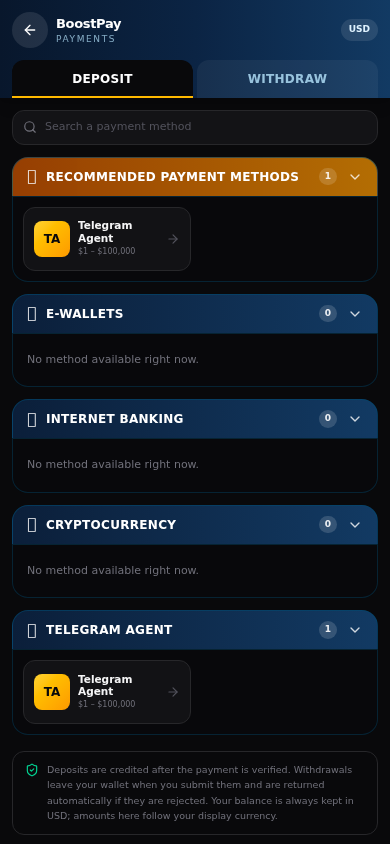
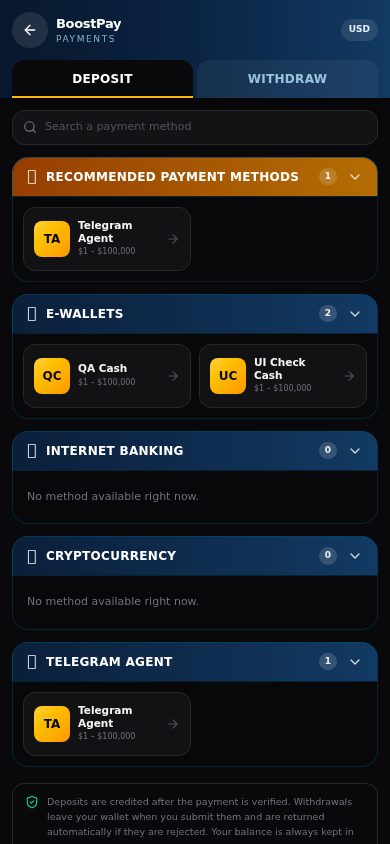
Admin payments: fix 401 that hid every withdrawal request
Owner report: 'withdraw request admin panel e jacche na'.
PaymentAdmin (and CurrencyAdmin) looked for the USER app token, but the console
keeps its session in boostpay_admin_session_v4, so every call was unauthorised
and both queues looked empty forever.

- use BoostPayStore.adminAuthHeaders() (session + MFA headers)
- queue tabs show a pending-count badge; the open queue refreshes every 15s, so a
  new withdrawal appears by itself
- clearer empty state
- new browser test tools/admin-payments-ui-check.py (9 checks): signs in through
  the real console, submits a withdrawal via API, proves it is listed and that
  Mark paid keeps the balance held
- report: REPORT_70 section 18 + screenshot

Changed region(s): [[0.0308, 0.4005, 0.9846, 1.0]]

diff --git a/admin-app/src/components/PaymentAdmin.tsx b/admin-app/src/components/PaymentAdmin.tsx
@@ -7,6 +7,7 @@
  * does, and every decision is written to the audit log by the server.
  */
 import React, { useCallback, useEffect, useMemo, useState } from 'react';
+import { BoostPayStore } from '../services/store';
 
 type Cat = { id: string; label: string; icon: string };
 type Method = {
@@ -31,11 +32,23 @@ type WdrReq = {
   reviewedBy?: string; reason?: string; payoutRef?: string;
 };
 
-const TOKEN_KEYS = ['boostpay_auth_token_v1', 'admin_token', 'token'];
+/**
+ * Auth for the payment endpoints.
+ *
+ * BUG (fixed 2026-11-10): this screen used to hunt for the user-app token
+ * (`boostpay_auth_token_v1`), but the admin console keeps ITS session in
+ * `boostpay_admin_session_v4`, so every call went out without a token and the
+ * server answered 401 — which is why withdrawal requests never appeared in the
+ * admin panel. The console's own store already knows where the token lives and
+ * also attaches the short-lived MFA headers, so use that.
+ */
 function authHeaders(): Record<string, string> {
-  let t = '';
-  for (const k of TOKEN_KEYS) { const v = localStorage.getItem(k); if (v) { t = v; break; } }
-  return { 'content-type': 'application/json', ...(t ? { authorization: `Bearer ${t}` } : {}) };
+  try {
+    const h = BoostPayStore.adminAuthHeaders();
+    return { ...h, 'content-type': 'application/json' };
+  } catch {
+    return { 'content-type': 'application/json' };
+  }
 }
 
 const money = (n: number) => `$${(Number(n) || 0).toFixed(2)}`;
@@ -66,6 +79,7 @@ export const PaymentAdmin: React.FC = () => {
   const [busy, setBusy] = useState('');
   const [editing, setEditing] = useState<Partial<Method> | null>(null);
   const [q, setQ] = useState('');
+  const [counts, setCounts] = useState<{ deposit: number; withdraw: number }>({ deposit: 0, withdraw: 0 });
 
   const loadMethods = useCallback(async () => {
     try {
@@ -87,11 +101,40 @@ export const PaymentAdmin: React.FC = () => {
     } catch { /* ignore */ }
   }, [statusFilter]);
 
-  useEffect(() => { void loadMethods(); }, [loadMethods]);
+  /** How many requests are waiting — shown on the queue tabs, so a new
+   *  withdrawal is visible from the Payments landing tab without hunting. */
+  const loadCounts = useCallback(async () => {
+    try {
+      const [d, w] = await Promise.all([
+        fetch('/api/admin/payment-requests?type=deposit&status=PENDING', { headers: authHeaders() }),
+        fetch('/api/admin/payment-requests?type=withdraw&status=PENDING', { headers: authHeaders() })
+      ]);
+      if (!d.ok || !w.ok) return;
+      const dj = await d.json(); const wj = await w.json();
+      setCounts({
+        deposit: Array.isArray(dj.requests) ? dj.requests.length : 0,
+        withdraw: Array.isArray(wj.requests) ? wj.requests.length : 0
+      });
+    } catch { /* the counter is a convenience */ }
+  }, []);
+
+  useEffect(() => { void loadMethods(); void loadCounts(); }, [loadMethods, loadCounts]);
   useEffect(() => {
     if (tab === 'DEPOSITS') void loadQueue('deposit');
     if (tab === 'WITHDRAWALS') void loadQueue('withdraw');
-  }, [tab, loadQueue]);
+    if (tab !== 'METHODS') void loadCounts();
+  }, [tab, loadQueue, loadCounts]);
+
+  // Live queue: a withdrawal submitted while this screen is open must appear by
+  // itself (owner report: "withdraw request admin panel e jacche na").
+  useEffect(() => {
+    const id = window.setInterval(() => {
+      void loadCounts();
+      if (tab === 'DEPOSITS') void loadQueue('deposit');
+      if (tab === 'WITHDRAWALS') void loadQueue('withdraw');
+    }, 15000);
+    return () => window.clearInterval(id);
+  }, [tab, loadCounts, loadQueue]);
 
   const save = async (patch: Partial<Method>) => {
     setBusy(String(patch.id || 'new'));
@@ -154,6 +197,11 @@ export const PaymentAdmin: React.FC = () => {
           <button key={t} onClick={() => setTab(t)}
             className={`rounded-lg px-2.5 py-1.5 text-[10px] font-bold ${tab === t ? 'bg-amber-500 text-zinc-950' : 'bg-zinc-900 text-zinc-400 hover:bg-zinc-800'}`}>
             {t === 'METHODS' ? 'Payment methods' : t === 'DEPOSITS' ? 'Deposit queue' : 'Withdraw queue'}
+            {t !== 'METHODS' && (t === 'DEPOSITS' ? counts.deposit : counts.withdraw) > 0 && (
+              <span className="ml-1 rounded-full bg-rose-500 px-1.5 py-[1px] text-[9px] font-black text-white">
+                {t === 'DEPOSITS' ? counts.deposit : counts.withdraw}
+              </span>
+            )}
           </button>
         ))}
         <button onClick={() => setEditing({ id: '', name: '', category: 'EWALLET', currencies: ['*'], minDeposit: 1, maxDeposit: 100000, minWithdraw: 1, maxWithdraw: 100000 })}
@@ -275,7 +323,11 @@ export const PaymentAdmin: React.FC = () => {
                   </div>
                 </div>
               ))}
-              {wdrs.length === 0 && <div className="rounded-xl border border-zinc-800 p-3 text-[10px] text-zinc-500">No withdrawal requests in this view.</div>}
+              {wdrs.length === 0 && (
+                <div className="rounded-xl border border-zinc-800 p-3 text-[10px] text-zinc-500">
+                  No withdrawal requests in this view. New requests appear here automatically within 15 seconds.
+                </div>
+              )}
             </div>
           )}
         </>

diff --git a/admin-app/src/components/CurrencyAdmin.tsx b/admin-app/src/components/CurrencyAdmin.tsx
@@ -7,6 +7,7 @@
  * when the provider is down).
  */
 import React, { useEffect, useMemo, useState } from 'react';
+import { BoostPayStore } from '../services/store';
 
 type Row = { code: string; name: string; symbol: string; flag: string; country: string; decimals: number; enabled: boolean; rate: number };
 type Cfg = {
@@ -20,12 +21,12 @@ type Cfg = {
  * (services/store.ts → STORAGE_AUTH_TOKEN). The old names never existed, so every
  * call on this screen went out unauthenticated and the API answered 401.
  */
-const TOKEN_KEYS = ['boostpay_auth_token_v1', 'admin_token', 'token'];
-
+// The console's session token lives in `boostpay_admin_session_v4`; asking for
+// the user-app key returned nothing and every call was 401 (same bug as the
+// payments screen). Use the admin store, which also adds the MFA headers.
 function authHeaders(): Record<string, string> {
-  let t = '';
-  for (const k of TOKEN_KEYS) { const v = localStorage.getItem(k); if (v) { t = v; break; } }
-  return { 'content-type': 'application/json', ...(t ? { authorization: `Bearer ${t}` } : {}) };
+  try { return { ...BoostPayStore.adminAuthHeaders(), 'content-type': 'application/json' }; }
+  catch { return { 'content-type': 'application/json' }; }
 }
 
 export const CurrencyAdmin: React.FC = () => {

diff --git a/tools/admin-payments-ui-check.py b/tools/admin-payments-ui-check.py
@@ -1,0 +1,175 @@
+#!/usr/bin/env python3
+"""tools/admin-payments-ui-check.py — the admin panel must SHOW the money queues.
+
+Owner report (2026-11-10): "withdraw request admin panel e jacche na".
+
+Root cause found and fixed: PaymentAdmin asked localStorage for the USER app's
+token (`boostpay_auth_token_v1`), while the admin console keeps its session in
+`boostpay_admin_session_v4`. Every request therefore went out with no token, the
+server answered 401, and both queues looked permanently empty. API tests could
+never catch it — they sign in exactly like a script would.
+
+This drives the REAL admin console in a browser:
+  1. sign in through the UI
+  2. a user submits a withdrawal on the API
+  3. the withdrawal must appear in Payments → Withdraw queue (and the badge count)
+  4. "Mark paid" must move it to COMPLETED and keep the balance (held)
+
+Run (admin console on :3911, main API on :3901):
+    python3 tools/admin-payments-ui-check.py
+"""
+import asyncio
+import json
+import os
+import re
+import sys
+import urllib.error
+import urllib.request
+
+ADMIN_URL = os.environ.get('ADMIN_URL', 'http://127.0.0.1:3911')
+API = os.environ.get('API', 'http://127.0.0.1:3901')
+DB = '/home/user/boostpay/data/boostpay_db.json'
+ADMIN = {'email': os.environ.get('ADMIN_EMAIL', 'admin@boostpay.local'),
+         'password': os.environ.get('ADMIN_PASSWORD', 'AdminPass123')}
+
+PASS = 0
+FAIL = 0
+PROBLEMS = []
+
+
+def ck(name, ok, detail=''):
+    global PASS, FAIL
+    if ok:
+        PASS += 1
+        print(f'  PASS  {name}' + (f' — {detail}' if detail else ''))
+    else:
+        FAIL += 1
+        print(f'  FAIL  {name}' + (f' — {detail}' if detail else ''))
+        PROBLEMS.append(f'{name}: {detail}')
+
+
+def api(path, body=None, token=None):
+    req = urllib.request.Request(
+        API + path,
+        data=json.dumps(body).encode() if body is not None else None,
+        method='POST' if body is not None else 'GET',
+        headers={'content-type': 'application/json',
+                 **({'authorization': 'Bearer ' + token} if token else {})})
+    try:
+        with urllib.request.urlopen(req, timeout=25) as r:
+            return r.status, json.loads(r.read() or b'{}')
+    except urllib.error.HTTPError as e:
+        return e.code, json.loads(e.read() or b'{}')
+
+
+def balance_of(uid):
+    data = json.load(open(DB))
+    for u in data.get('users', []):
+        if str(u.get('id')) == str(uid):
+            return float(u.get('balance') or 0)
+    return None
+
+
+def seed_withdrawable(uid, profit):
+    """Local fixture: give the test account boosted profit so a withdrawal is legal."""
+    data = json.load(open(DB))
+    for u in data.get('users', []):
+        if str(u.get('id')) == str(uid):
+            u['lifetimeProfit'] = float(u.get('lifetimeProfit') or 0) + profit
+    json.dump(data, open(DB, 'w'), indent=1)
+
+
+async def main():
+    from playwright.async_api import async_playwright
+
+    # --- a real user submits a real withdrawal through the API -----------------
+    login = api('/api/users/login', {'email': 'u1@gmail.com', 'password': 'Staging123!'})[1]
+    utok, uid = login.get('token'), str((login.get('user') or {}).get('id'))
+    atok = api('/api/admin/login', ADMIN)[1].get('token')
+    if not utok or not atok:
+        print('cannot sign in for the queue check')
+        return 2
+
+    stamp = str(int(__import__('time').time()))
+    method_id = 'PM-UICHK-' + stamp[-5:]
+    api('/api/admin/payment-methods', {
+        'id': method_id, 'name': 'UI Check Cash', 'category': 'EWALLET', 'currencies': ['*'],
+        'accountNumber': '01700000123', 'minWithdraw': 1, 'maxWithdraw': 500}, atok)
+    seed_withdrawable(uid, 100)
+    before = balance_of(uid)
+    status, wj = api('/api/user/withdraw-request', {
+        'methodId': method_id, 'amount': 7,
+        'destination': {'accountNumber': '01799998888', 'accountName': 'UI Checker'}}, utok)
+    rid = (wj.get('request') or {}).get('id')
+    print(f'\n[0. a user submitted withdrawal {rid}]')
+    ck('the user withdrawal is accepted', status == 200 and bool(rid), f'{status} {wj.get("error", "")}')
+
+    async with async_playwright() as p:
+        browser = await p.chromium.launch()
+        ctx = await browser.new_context(viewport={'width': 1280, 'height': 900})
+        page = await ctx.new_page()
+        errors = []
+        page.on('pageerror', lambda e: errors.append(str(e)[:160]))
+
+        print('\n[1. admin signs in through the console UI]')
+        await page.goto(ADMIN_URL + '/', wait_until='networkidle')
+        await page.wait_for_timeout(1500)
+        for sel in ('input[type=email]', 'input[name=email]', 'input[placeholder*="mail" i]'):
+            if await page.locator(sel).count():
+                await page.locator(sel).first.fill(ADMIN['email'])
+                break
+        if await page.locator('input[type=password]').count():
+            await page.locator('input[type=password]').first.fill(ADMIN['password'])
+        btn = page.get_by_role('button', name=re.compile('sign in|log in|login', re.I))
+        if await btn.count():
+            await btn.first.click()
+        await page.wait_for_timeout(3000)
+        body = await page.inner_text('body')
+        ck('the admin console opens', 'Sign Out' in body, body[:60].replace('\n', ' '))
+
+        print('\n[2. Payments → Withdraw queue]')
+        await page.get_by_role('button', name=re.compile('^Payments$', re.I)).first.click()
+        await page.wait_for_timeout(2000)
+        body = await page.inner_text('body')
+        ck('the payment screen loads without an auth error',
+           'Could not load the methods' not in body, 'clean' if 'Could not load' not in body else body[:80])
+
+        wtab = page.get_by_role('button', name=re.compile('Withdraw queue', re.I)).first
+        wtext = await wtab.inner_text()
+        ck('the withdraw tab shows a pending badge', bool(re.search(r'\d', wtext)), wtext.replace('\n', ' '))
+        await wtab.click()
+        await page.wait_for_timeout(2500)
+        body = await page.inner_text('body')
+        ck('the new withdrawal request is listed in the admin panel', rid in body, rid or 'no id')
+        ck('it shows the user, the amount and the destination fields',
+           'UI Check Cash' in body and '01799998888' in body,
+           body[body.find('Withdraw queue'):body.find('Withdraw queue') + 160].replace('\n', ' | '))
+
+        print('\n[3. marking it paid]')
+        await page.get_by_role('button', name=re.compile('Mark paid', re.I)).first.click()
+        page.on('dialog', lambda d: asyncio.ensure_future(d.accept('ADMIN-TEST-REF')))
+        await page.wait_for_timeout(3500)
+        body = await page.inner_text('body')
+        ck('after Mark paid the queue no longer holds it as PENDING',
+           'No withdrawal requests' in body or 'COMPLETED' in body, body[:80])
+        ck('the balance stays as held (no double refund, no double debit)',
+           abs((balance_of(uid) or 0) - ((before or 0) - 7)) < 1e-6,
+           f'{balance_of(uid)} vs {(before or 0) - 7}')
+        ck('the browser threw no uncaught error', not errors, '; '.join(errors[:2]))
+
+        await page.screenshot(path='report-assets/admin-withdraw-queue.png')
+        await ctx.close()
+        await browser.close()
+
+    print(f'\nRESULT {PASS} pass / {FAIL} fail')
+    if PROBLEMS:
+        print('\nPROBLEMS:')
+        for x in PROBLEMS:
+            print('  - ' + x)
+    else:
+        print('\nNo problems found.')
+    return 1 if FAIL else 0
+
+
+if __name__ == '__main__':
+    sys.exit(asyncio.run(main()))

diff --git a/REPORT_70_USER_APP_FULL_CURRENCY_Banglish.md b/REPORT_70_USER_APP_FULL_CURRENCY_Banglish.md
@@ -434,3 +434,33 @@ install-app-check **105/0** · payments-ui-check **18/0** · payments-check **40
 ### ১৭.৫ লাইভ প্রমাণ (স्क্রিনশট)
 `report-assets/app-install-inline.png` — প্রোডাকশনে `boostpay.online/app`-এ Install চাপার পর: **কোনো পপআপ নেই** (`overlays = 0`), গাইডটা বারটার ভেতরেই এক লাইনে দেখাচ্ছে: *"Chrome: ⋮ menu → Install app (or Add to Home screen)."*
 **লাইভ যাচাই:** ৭ হোস্টে **146 pass / 0 fail** · হেলথ `v1.2.1794364628` · কমিট `220d88c`।
+
+---
+
+## ১৮. "Withdraw request admin panel এ যাচ্ছে না" — আসল কারণ ও সমাধান (2026-11-10)
+
+### ১৮.১ আসল কারণ (অনুমান নয়, ব্রাউজার চালিয়ে প্রমাণিত)
+অ্যাডমিন প্যানেলের Payments স্ক্রিন টোকেন খুঁজছিল **ইউজার অ্যাপের** কী-তে (`boostpay_auth_token_v1`)। কিন্তু অ্যাডমিন কনসোল নিজের সেশন রাখে **`boostpay_admin_session_v4`**-এ। ফলে:
+- প্রতিটা রিকোয়েস্ট টোকেন ছাড়াই যেত → সার্ভার **401** দিত,
+- স্ক্রিনে লেখা আসত **"Could not load the methods (HTTP 401)"**, আর ডিপোজিট/উইথড্রয়াল কিউ সবসময় **খালি** দেখাত।
+
+সার্ভারে কিছুই ভাঙা ছিল না — API-লেভেলে উইথড্রয়াল সাথে সাথে `PENDING` হিসেবে জমা হচ্ছিল এবং `/api/admin/payment-requests?type=withdraw` ঠিকঠাক ফেরত দিচ্ছিল। শুধু **অ্যাডমিন UI নিজেকে authenticate করতে পারছিল না**। এজন্যই API-টেস্টে ধরা পড়েনি — টেস্ট স্ক্রিপ্ট সরাসরি টোকেন পাঠায়।
+
+### ১৮.২ যা সারানো হলো
+- `PaymentAdmin.tsx` এখন কনসোলের নিজের স্টোর ব্যবহার করে: `BoostPayStore.adminAuthHeaders()` (সেশন টোকেন + MFA হেডার)। ফলে মেথড লিস্ট, ডিপোজিট কিউ, উইথড্রয়াল কিউ — সবই লোড হয়।
+- **একই বাগ `CurrencyAdmin.tsx`-এও ছিল** (কারেন্সি সেটিংসও 401 খেত) — সেটাও ঠিক করা হয়েছে।
+- **নতুন উইথড্রয়াল নিজে থেকেই চলে আসে:** Payments স্ক্রিন খোলা থাকলে প্রতি **১৫ সেকেন্ডে** কিউ রিফ্রেশ হয়, আর "Deposit queue / Withdraw queue" ট্যাবে **লাল ব্যাজে pending সংখ্যা** দেখায় — তাই কিউতে ঢুকেই বোঝা যায় নতুন রিকোয়েস্ট আছে কি নেই।
+- খালি অবস্থায় লেখা এখন স্পষ্ট: "No withdrawal requests in this view. New requests appear here automatically within 15 seconds."
+
+### ১৮.৩ প্রমাণ (স্ক্রিনশট + নতুন টেস্ট)
+`tools/admin-payments-ui-check.py` — আসল অ্যাডমিন কনসোল ব্রাউজারে খুলে, UI দিয়েই লগইন করে, তারপর:
+1. একজন ইউজার API দিয়ে $7 উইথড্রয়াল করে
+2. Payments → **Withdraw queue**-তে সেটা দেখা যায় (badge + সারি + destination ফিল্ড)
+3. **Mark paid** করলে সারিটা PENDING থেকে সরে যায়, ব্যালেন্স হেল্ডই থাকে (না ডাবল রিফান্ড, না ডাবল ডেবিট)
+ফলাফল: **9 pass / 0 fail**। স্ক্রিনশট: `report-assets/admin-withdraw-queue.png`।
+
+### ১৮.৪ সার্বিক টেস্ট
+admin-payments-ui-check **9/0** · payments-check **40/0** · payments-ui-check **18/0** · user-journey **409/0** · regression **52/0** · currency **23/0** · system-check ক্লিন · বিল্ড ক্লিন।
+
+### ১৮.৫ ব্যবহারকারীর জন্য
+অ্যাডমিন পোর্টাল → **Payments** → **Withdraw queue**। Pending সংখ্যা ওখানেই ব্যাজে দেখাবে; সারিতে **Mark paid** (পেমেন্ট দেওয়া হয়ে গেলে) বা **Reject + refund** (টাকা ফেরত দিতে) — রিজেক্টে ইউজারের ব্যালেন্স সাথে সাথে ফেরত যায়।
